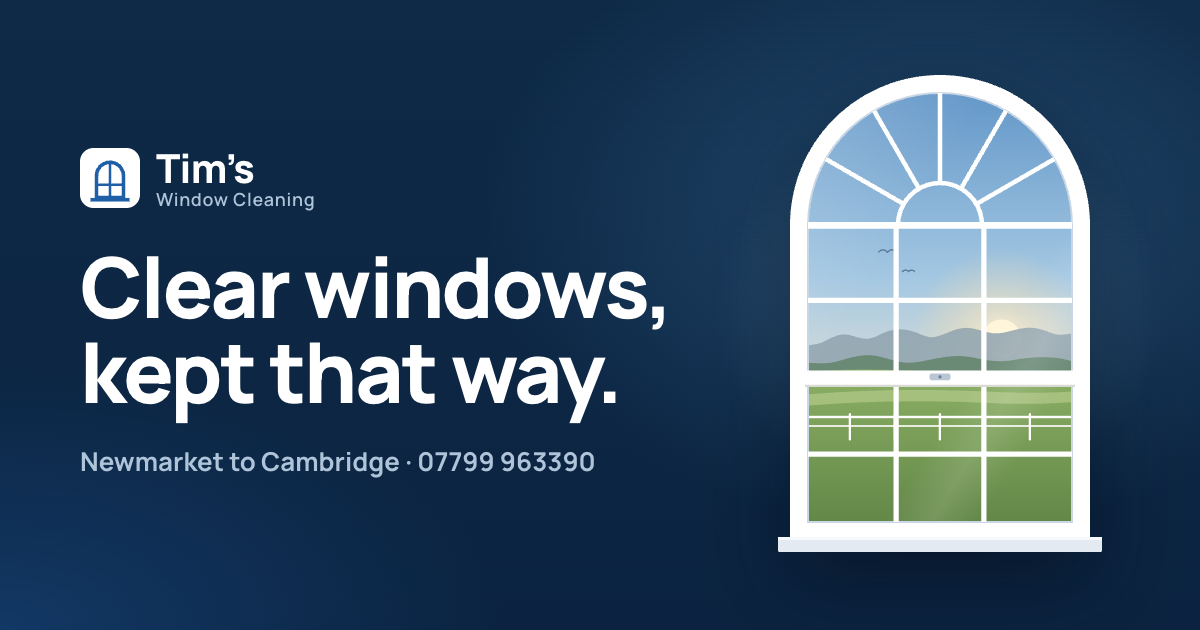
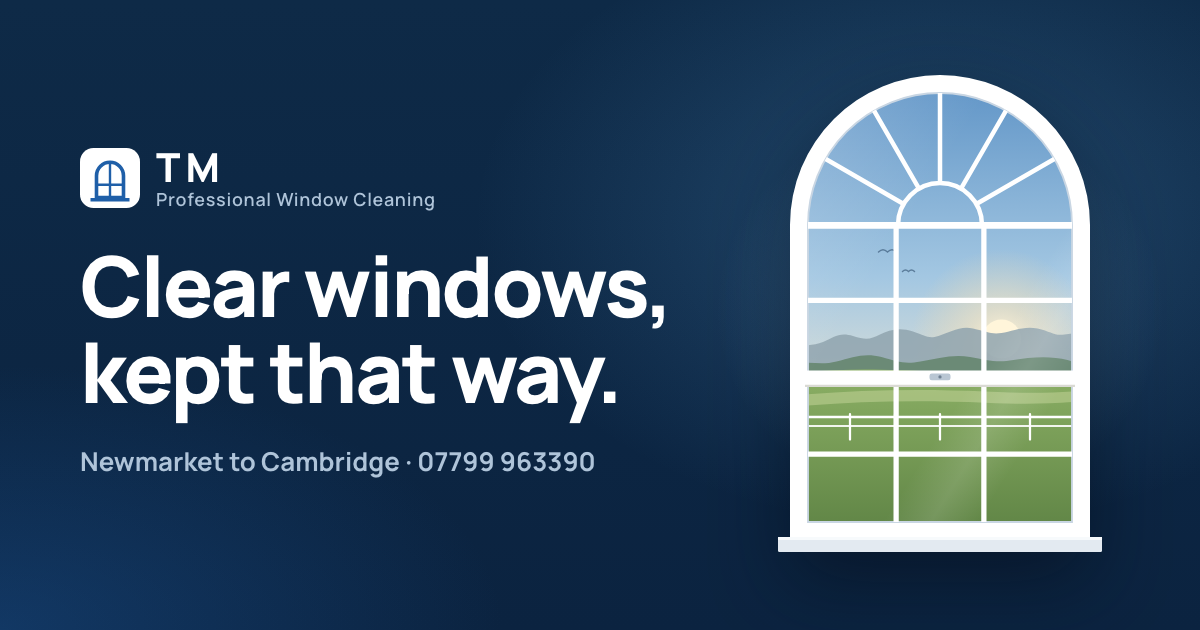
Rename business to T M Professional Window Cleaning and trim services
Services are now windows, conservatory roofs, and gutters and fascias.
Removed solar panels and commercial premises, regenerated the share
image, and tightened the header so the longer name fits.

diff --git a/index.html b/index.html
@@ -3,13 +3,13 @@
 <head>
   <meta charset="utf-8">
   <meta name="viewport" content="width=device-width, initial-scale=1">
-  <title>Tim’s Window Cleaning | Window Cleaners in Newmarket &amp; Cambridge</title>
-  <meta name="description" content="Pure-water window cleaning for homes and businesses from Newmarket to Cambridge. Regular 4 or 8-weekly rounds, conservatory roofs, gutters, fascias, soffits and solar panels. Free quotes.">
+  <title>T M Professional Window Cleaning | Window Cleaners in Newmarket &amp; Cambridge</title>
+  <meta name="description" content="Pure-water window cleaning for homes and businesses from Newmarket to Cambridge. Regular 4 or 8-weekly rounds, conservatory roofs, gutters and fascias. Free quotes.">
   <meta name="theme-color" content="#0E2A47">
 
   <!-- Social sharing preview (add your domain to og:url once it's live) -->
   <meta property="og:type" content="website">
-  <meta property="og:title" content="Tim’s Window Cleaning | Newmarket &amp; Cambridge">
+  <meta property="og:title" content="T M Professional Window Cleaning | Newmarket &amp; Cambridge">
   <meta property="og:description" content="Pure-water window cleaning from Newmarket to Cambridge. Check your street is on the round and get a free quote.">
   <meta property="og:image" content="assets/og-image.png">
   <meta property="og:locale" content="en_GB">
@@ -26,7 +26,7 @@
   {
     "@context": "https://schema.org",
     "@type": "LocalBusiness",
-    "name": "Tim's Window Cleaning",
+    "name": "T M Professional Window Cleaning",
     "description": "Pure-water window cleaning for homes and businesses from Newmarket to Cambridge.",
     "telephone": "+447799963390",
     "address": { "@type": "PostalAddress", "addressLocality": "Newmarket", "addressRegion": "Suffolk", "addressCountry": "GB" },
@@ -35,9 +35,7 @@
       { "@type": "Offer", "itemOffered": { "@type": "Service", "name": "Window cleaning" } },
       { "@type": "Offer", "itemOffered": { "@type": "Service", "name": "Conservatory roof cleaning" } },
       { "@type": "Offer", "itemOffered": { "@type": "Service", "name": "Gutter clearing" } },
-      { "@type": "Offer", "itemOffered": { "@type": "Service", "name": "Fascia and soffit cleaning" } },
-      { "@type": "Offer", "itemOffered": { "@type": "Service", "name": "Solar panel cleaning" } },
-      { "@type": "Offer", "itemOffered": { "@type": "Service", "name": "Commercial window cleaning" } }
+      { "@type": "Offer", "itemOffered": { "@type": "Service", "name": "Fascia cleaning" } }
     ]
   }
   </script>
@@ -48,7 +46,7 @@
   <!-- ============ HEADER ============ -->
   <header class="site-header" data-header>
     <div class="wrap header-inner">
-      <a class="brand" href="#top" aria-label="Tim’s Window Cleaning, back to top">
+      <a class="brand" href="#top" aria-label="T M Professional Window Cleaning, back to top">
         <svg class="brand-mark" viewBox="0 0 40 40" aria-hidden="true">
           <rect width="40" height="40" rx="9" fill="#1F5FA8"/>
           <path d="M11 33V18.5a9 9 0 0 1 18 0V33Z" fill="none" stroke="#FFFFFF" stroke-width="2.4"/>
@@ -56,8 +54,8 @@
           <path d="M7 34.5h26" stroke="#FFFFFF" stroke-width="2.4"/>
         </svg>
         <span class="brand-text">
-          <span class="brand-name">Tim’s</span>
-          <span class="brand-sub">Window Cleaning</span>
+          <span class="brand-name">T M</span>
+          <span class="brand-sub">Professional Window Cleaning</span>
         </span>
       </a>
 
@@ -92,7 +90,7 @@
       <div class="wrap hero-grid">
         <div class="cover">
           <h1 id="hero-title">Clear windows, kept that way.</h1>
-          <p class="lede">Pure-water window cleaning for homes and businesses from Newmarket to Cambridge, every four or eight weeks. Conservatory roofs, gutters, fascias and solar panels too.</p>
+          <p class="lede">Pure-water window cleaning for homes and businesses from Newmarket to Cambridge, every four or eight weeks. Conservatory roofs, gutters and fascias too.</p>
 
           <form class="check" data-check novalidate>
             <label class="check-label" for="c-postcode">Is your street on the round?</label>
@@ -280,34 +278,10 @@
           <li class="key-row">
             <svg class="key-symbol" viewBox="0 0 64 64" aria-hidden="true"><path d="M10 20h44v6a8 8 0 0 1-8 8H18a8 8 0 0 1-8-8Z M44 34v16" fill="none" stroke="currentColor" stroke-width="2.6" stroke-linejoin="round"/><path d="M44 54v2" stroke="currentColor" stroke-width="3" stroke-linecap="round"/></svg>
             <div class="key-text">
-              <h3>Gutter clearing</h3>
-              <p>Gutters emptied and downpipes checked, so rainwater goes where it should and not down your walls.</p>
+              <h3>Gutters and fascias</h3>
+              <p>Gutters emptied and downpipes checked, so rainwater goes where it should, and the boards along your roofline washed back to their proper colour.</p>
             </div>
-            <button type="button" class="key-add" data-service="Gutter clearing" aria-pressed="false"><span class="key-box" aria-hidden="true"></span><span class="key-add-label">Add to my quote</span></button>
-          </li>
-          <li class="key-row">
-            <svg class="key-symbol" viewBox="0 0 64 64" aria-hidden="true"><path d="M8 34 32 14l24 20 M14 30v6h36v-6 M14 42h36" fill="none" stroke="currentColor" stroke-width="2.6" stroke-linejoin="round"/></svg>
-            <div class="key-text">
-              <h3>Fascias and soffits</h3>
-              <p>The boards along your roofline, washed back to their proper colour. Pairs well with a gutter clear.</p>
-            </div>
-            <button type="button" class="key-add" data-service="Fascias and soffits" aria-pressed="false"><span class="key-box" aria-hidden="true"></span><span class="key-add-label">Add to my quote</span></button>
-          </li>
-          <li class="key-row">
-            <svg class="key-symbol" viewBox="0 0 64 64" aria-hidden="true"><path d="M12 42 18 18h32l-6 24Z M15 30h32 M27 18l-4 24 M39 18l-4 24 M32 42v10 M24 52h16" fill="none" stroke="currentColor" stroke-width="2.4" stroke-linejoin="round"/></svg>
-            <div class="key-text">
-              <h3>Solar panels</h3>
-              <p>Grimy panels make less electricity. We wash them with pure water that leaves nothing behind on the glass.</p>
-            </div>
-            <button type="button" class="key-add" data-service="Solar panels" aria-pressed="false"><span class="key-box" aria-hidden="true"></span><span class="key-add-label">Add to my quote</span></button>
-          </li>
-          <li class="key-row">
-            <svg class="key-symbol" viewBox="0 0 64 64" aria-hidden="true"><path d="M10 26 14 14h36l4 12 M10 26a7 7 0 0 0 14 0 7 7 0 0 0 16 0 7 7 0 0 0 14 0 M14 32v20h36V32 M22 52V40h9v12 M36 40h9v7h-9Z" fill="none" stroke="currentColor" stroke-width="2.4" stroke-linejoin="round"/></svg>
-            <div class="key-text">
-              <h3>Shops and offices</h3>
-              <p>Shopfronts, offices and small commercial units, cleaned on a schedule that works around your opening hours.</p>
-            </div>
-            <button type="button" class="key-add" data-service="Commercial premises" aria-pressed="false"><span class="key-box" aria-hidden="true"></span><span class="key-add-label">Add to my quote</span></button>
+            <button type="button" class="key-add" data-service="Gutters and fascias" aria-pressed="false"><span class="key-box" aria-hidden="true"></span><span class="key-add-label">Add to my quote</span></button>
           </li>
           </ul>
         </div>
@@ -502,7 +476,7 @@
             <p>Yes. We don’t use soap or chemicals, only filtered water, so there’s nothing harmful running off into your borders, lawn or pond.</p>
           </details>
           <details>
-            <summary>Do you clean conservatory roofs, gutters and solar panels on the same visit?</summary>
+            <summary>Do you clean conservatory roofs, gutters and fascias on the same visit?</summary>
             <p>Often, yes. Tick everything you’re interested in on the quote form and we’ll price it together and book it in the way that makes most sense for you.</p>
           </details>
           <details>
@@ -537,7 +511,7 @@
           <form class="quote-form" data-quote-form novalidate>
             <!-- Web3Forms settings: paste Tim's access key below (see README) -->
             <input type="hidden" name="access_key" value="YOUR_WEB3FORMS_ACCESS_KEY">
-            <input type="hidden" name="from_name" value="Tim’s Window Cleaning website">
+            <input type="hidden" name="from_name" value="T M Professional Window Cleaning website">
             <input type="hidden" name="subject" value="New quote request">
             <input type="checkbox" name="botcheck" class="botcheck" tabindex="-1" autocomplete="off" aria-hidden="true">
 
@@ -589,10 +563,7 @@
               <div class="chips">
                 <label class="chip"><input type="checkbox" name="services" value="Windows, frames and sills" checked><span>Windows, frames and sills</span></label>
                 <label class="chip"><input type="checkbox" name="services" value="Conservatory roof"><span>Conservatory roof</span></label>
-                <label class="chip"><input type="checkbox" name="services" value="Gutter clearing"><span>Gutter clearing</span></label>
-                <label class="chip"><input type="checkbox" name="services" value="Fascias and soffits"><span>Fascias and soffits</span></label>
-                <label class="chip"><input type="checkbox" name="services" value="Solar panels"><span>Solar panels</span></label>
-                <label class="chip"><input type="checkbox" name="services" value="Commercial premises"><span>Commercial premises</span></label>
+                <label class="chip"><input type="checkbox" name="services" value="Gutters and fascias"><span>Gutters and fascias</span></label>
               </div>
               <p class="field-error" id="f-services-error" hidden></p>
             </fieldset>
@@ -635,7 +606,7 @@
   <footer class="site-footer">
     <div class="wrap footer-grid">
       <div class="footer-brand">
-        <a class="brand" href="#top" aria-label="Tim’s Window Cleaning, back to top">
+        <a class="brand" href="#top" aria-label="T M Professional Window Cleaning, back to top">
           <svg class="brand-mark" viewBox="0 0 40 40" aria-hidden="true">
             <rect width="40" height="40" rx="9" fill="#FFFFFF"/>
             <path d="M11 33V18.5a9 9 0 0 1 18 0V33Z" fill="none" stroke="#1F5FA8" stroke-width="2.4"/>
@@ -643,8 +614,8 @@
             <path d="M7 34.5h26" stroke="#1F5FA8" stroke-width="2.4"/>
           </svg>
           <span class="brand-text">
-            <span class="brand-name">Tim’s</span>
-            <span class="brand-sub">Window Cleaning</span>
+            <span class="brand-name">T M</span>
+            <span class="brand-sub">Professional Window Cleaning</span>
           </span>
         </a>
         <p>Pure-water window cleaning from Newmarket to Cambridge.</p>
@@ -669,7 +640,7 @@
       </div>
     </div>
     <div class="wrap footer-base">
-      <p>&copy; <span data-year>2026</span> Tim’s Window Cleaning. Newmarket, Suffolk.</p>
+      <p>&copy; <span data-year>2026</span> T M Professional Window Cleaning. Newmarket, Suffolk.</p>
     </div>
   </footer>
 

diff --git a/css/styles.css b/css/styles.css
@@ -1,5 +1,5 @@
 /* =========================================================
-   Tim’s Window Cleaning
+   T M Professional Window Cleaning
    Palette: deep harbour navy, clear window blue, sky, mist white
    Type:    Manrope (display and text), self-hosted
    ========================================================= */
@@ -130,17 +130,17 @@ h3 { font-weight: 700; font-size: 1.22rem; line-height: 1.3; letter-spacing: -0.
   transition: box-shadow .25s ease;
 }
 .site-header.is-scrolled { box-shadow: 0 8px 24px -12px rgba(11, 35, 64, .25); }
-.header-inner { display: flex; align-items: center; gap: 2rem; height: var(--header-h); }
+.header-inner { display: flex; align-items: center; gap: 1.5rem; height: var(--header-h); }
 
 .brand { display: inline-flex; align-items: center; gap: .75rem; text-decoration: none; color: inherit; }
 .brand-mark { width: 40px; height: 40px; flex: none; }
 .brand-text { display: flex; flex-direction: column; line-height: 1; }
 .brand-name { font-weight: 800; font-size: 1.45rem; letter-spacing: -.02em; }
-.brand-sub { font-size: .78rem; font-weight: 600; letter-spacing: .04em; margin-top: .2rem; color: var(--muted); }
+.brand-sub { font-size: .78rem; font-weight: 600; letter-spacing: .04em; margin-top: .2rem; color: var(--muted); white-space: nowrap; }
 
 .site-nav { margin-left: auto; }
-.site-nav ul { display: flex; gap: 1.75rem; list-style: none; }
-.site-nav a { text-decoration: none; font-size: .98rem; font-weight: 600; color: var(--muted); padding: .4rem 0; position: relative; transition: color .2s ease; }
+.site-nav ul { display: flex; gap: 1.3rem; list-style: none; }
+.site-nav a { white-space: nowrap; text-decoration: none; font-size: .98rem; font-weight: 600; color: var(--muted); padding: .4rem 0; position: relative; transition: color .2s ease; }
 .site-nav a:hover { color: var(--navy-800); }
 .site-nav a::after {
   content: ""; position: absolute; left: 0; right: 0; bottom: -2px; height: 2px; border-radius: 2px;
@@ -148,7 +148,8 @@ h3 { font-weight: 700; font-size: 1.22rem; line-height: 1.3; letter-spacing: -0.
 }
 .site-nav a:hover::after { transform: scaleX(1); }
 
-.header-actions { display: flex; align-items: center; gap: 1.1rem; }
+.header-actions { display: flex; align-items: center; gap: 1rem; }
+.header-cta { white-space: nowrap; }
 .header-phone { display: inline-flex; align-items: center; gap: .45rem; text-decoration: none; font-weight: 700; font-size: .98rem; white-space: nowrap; }
 .header-phone svg { width: 19px; height: 19px; color: var(--blue); }
 
@@ -168,12 +169,12 @@ h3 { font-weight: 700; font-size: 1.22rem; line-height: 1.3; letter-spacing: -0.
 .nav-toggle[aria-expanded="true"] .nav-toggle-bars::before { transform: translateY(6px) rotate(45deg); }
 .nav-toggle[aria-expanded="true"] .nav-toggle-bars::after { transform: translateY(-6px) rotate(-45deg); }
 
-@media (max-width: 1080px) {
+@media (max-width: 1340px) {
   .header-phone span { display: none; }
   .header-phone { width: 46px; height: 46px; justify-content: center; border: 1px solid var(--line); border-radius: 50%; }
   .site-nav ul { gap: 1.2rem; }
 }
-@media (max-width: 900px) {
+@media (max-width: 1140px) {
   :root { --header-h: 66px; }
   .nav-toggle { display: inline-block; }
   .header-cta { display: none; }

diff --git a/.impeccable/assets-src/og.html b/.impeccable/assets-src/og.html
@@ -6,7 +6,7 @@
 .og .brand-mark{width:60px;height:60px}.og .brand-name{font-size:40px}.og .brand-sub{font-size:18px;color:#AFC4D9}
 .og p.t{margin-top:26px;font-size:26px;font-weight:700;color:#AFC4D9}
 .og .hero-window{max-width:330px}</style></head><body><section class="hero og">
-<div><div class="brand"><svg class="brand-mark" viewBox="0 0 40 40"><rect width="40" height="40" rx="9" fill="#FFFFFF"/><path d="M11 33V18.5a9 9 0 0 1 18 0V33Z" fill="none" stroke="#1F5FA8" stroke-width="2.4"/><path d="M11 24.5h18M20 9.5V33" fill="none" stroke="#1F5FA8" stroke-width="1.6"/><path d="M7 34.5h26" stroke="#1F5FA8" stroke-width="2.4"/></svg><span class="brand-text"><span class="brand-name">Tim’s</span><span class="brand-sub">Window Cleaning</span></span></div>
+<div><div class="brand"><svg class="brand-mark" viewBox="0 0 40 40"><rect width="40" height="40" rx="9" fill="#FFFFFF"/><path d="M11 33V18.5a9 9 0 0 1 18 0V33Z" fill="none" stroke="#1F5FA8" stroke-width="2.4"/><path d="M11 24.5h18M20 9.5V33" fill="none" stroke="#1F5FA8" stroke-width="1.6"/><path d="M7 34.5h26" stroke="#1F5FA8" stroke-width="2.4"/></svg><span class="brand-text"><span class="brand-name">T M</span><span class="brand-sub">Professional Window Cleaning</span></span></div>
 <h1>Clear windows, kept that way.</h1><p class="t">Newmarket to Cambridge · 07799 963390</p></div>
 <figure class="hero-window" data-window>
           <div class="window-stage">

diff --git a/js/main.js b/js/main.js
@@ -1,4 +1,4 @@
-/* Tim’s Window Cleaning: site behaviour
+/* T M Professional Window Cleaning: site behaviour
    1. Header, navigation and mobile action bar
    2. The hero window (grime, squeegee and wipe)
    3. Quote form (validation + Web3Forms)

diff --git a/PRODUCT.md b/PRODUCT.md
@@ -10,13 +10,13 @@ web
 Homeowners (and some small shops and offices) in and around Newmarket, Suffolk, out to Cambridge: Newmarket, Exning, Kentford, Burwell, Soham, Fordham, Bottisham, Fulbourn, Cherry Hinton, Cambridge. Most arrive on a phone, often from a Google search, a Facebook group recommendation or a flyer/van. Their job: find a reliable local window cleaner, judge quickly whether he's trustworthy and covers their street, and get a price with as little effort as possible (call, WhatsApp or a short form).
 
 ## Product Purpose
-A one-page site for Tim's Window Cleaning, a sole-trader window cleaning round. It exists to turn a local visitor into a quote request. Success = more calls, WhatsApps and form submissions from people inside the service area.
+A one-page site for T M Professional Window Cleaning, a sole-trader window cleaning round. It exists to turn a local visitor into a quote request. Success = more calls, WhatsApps and form submissions from people inside the service area.
 
 ## Positioning
 Pure-water, water-fed-pole cleaning: glass, frames and sills scrubbed and rinsed with filtered water from the ground, no ladders, no chemicals, dries spot-free. A local, named person (Tim) on a regular 4- or 8-weekly round, not a faceless franchise.
 
 ## Operating Context
-- Services: windows, frames and sills (the core round); conservatory roofs; gutter clearing; fascias and soffits; solar panels; shops and offices.
+- Services: windows, frames and sills (the core round); conservatory roofs; gutters and fascias. Nothing else is offered at the moment.
 - Frequency: every 4 weeks, every 8 weeks, or one-off.
 - Contact: phone 07799 963390 (tel +447799963390), WhatsApp on the same number, quote form posting to Web3Forms (access key still to be added, see README).
 - Confirmed by Tim: frames and sills cleaned on the regular round; upstairs done from the ground with a water-fed pole; customers needn't be in if there's access to the back; he lets customers know before each visit; he'll pop round to price if needed; reschedules only for heavy rain, high winds or frost; conservatory roofs done with soft brushes and downpipes checked when gutters are cleared; WhatsApp works on 07799 963390.
@@ -29,7 +29,7 @@ Pure-water, water-fed-pole cleaning: glass, frames and sills scrubbed and rinsed
 - LocalBusiness schema, OG image (assets/og-image.png contains the business name).
 
 ## Brand Commitments
-- Business name: "Tim's Window Cleaning". The name stays.
+- Business name: "T M Professional Window Cleaning". The name stays.
 - Complete visual rebrand authorised (logo, palette, type all open).
 - Standing preference (2026-10-15): the category standard done at premium craft. Classic window-cleaning blues (deep navy, clear blue, sky, white). An OS-map concept with orange/magenta was tried and rejected as too bright and garish; no bold concept worlds or loud accent colours.
 - Voice: plain, friendly, British, first-person plural ("we"), short sentences, no hype, no exclamation-mark salesmanship.

diff --git a/README.md b/README.md
@@ -1,4 +1,4 @@
-# Tim's window cleaning website
+# T M Professional Window Cleaning website
 
 A one-page site in plain HTML, CSS and JavaScript. There's no build step, no framework and nothing to install. The fonts are bundled in the folder, so it doesn't rely on Google Fonts.
 
@@ -30,10 +30,10 @@ The free plan allows 250 enquiries a month. Each email includes the customer's n
 
 ## 2. Business name
 
-The business is called "Tim’s Window Cleaning". To change it later:
+The business is called "T M Professional Window Cleaning". To change it later:
 
-- Find and replace `Tim’s Window Cleaning` throughout `index.html` (title, share text, schema `name`, form email name and footer).
-- Replace the short logo word in the two `<span class="brand-name">Tim’s</span>` lines (header and footer).
+- Find and replace `T M Professional Window Cleaning` throughout `index.html` (title, share text, schema `name`, form email name and footer).
+- Replace the logo text in the two `<span class="brand-name">T M</span>` / `<span class="brand-sub">Professional Window Cleaning</span>` pairs (header and footer).
 - Regenerate `assets/og-image.png` (the preview image shown when the link is shared on WhatsApp or Facebook), because the name is in it. It's a screenshot of `.impeccable/assets-src/og.html` at 1200×630; edit that page and ask Claude to re-shoot it.
 
 The phone number appears as `07799 963390` and `447799963390`, so a find and replace handles both if it ever changes.
@@ -48,7 +48,7 @@ The copy describes standard pure-water window cleaning practice. Tim should conf
 - He lets customers know before each visit
 - He'll pop round to price a job if needed
 - He reschedules only for heavy rain, high winds or frost
-- Conservatory roofs are done with soft brushes, and downpipes are checked when gutters are cleared
+- Conservatory roofs are done with soft brushes, and downpipes are checked when gutters are cleared (services offered: windows, conservatory roofs, gutters and fascias)
 - WhatsApp works on 07799 963390
 
 ## 4. Add trust signals when Tim has them

diff --git a/DESIGN.md b/DESIGN.md
@@ -1,5 +1,5 @@
 ---
-name: Tim's Window Cleaning
+name: T M Professional Window Cleaning
 description: Pure-water window cleaning from Newmarket to Cambridge, in clear premium blues.
 colors:
   harbour-navy-950: "#071A2E"
@@ -85,7 +85,7 @@ components:
     rounded: "{rounded.md}"
 ---
 
-# Design System: Tim's Window Cleaning
+# Design System: T M Professional Window Cleaning
 
 ## Overview
 
